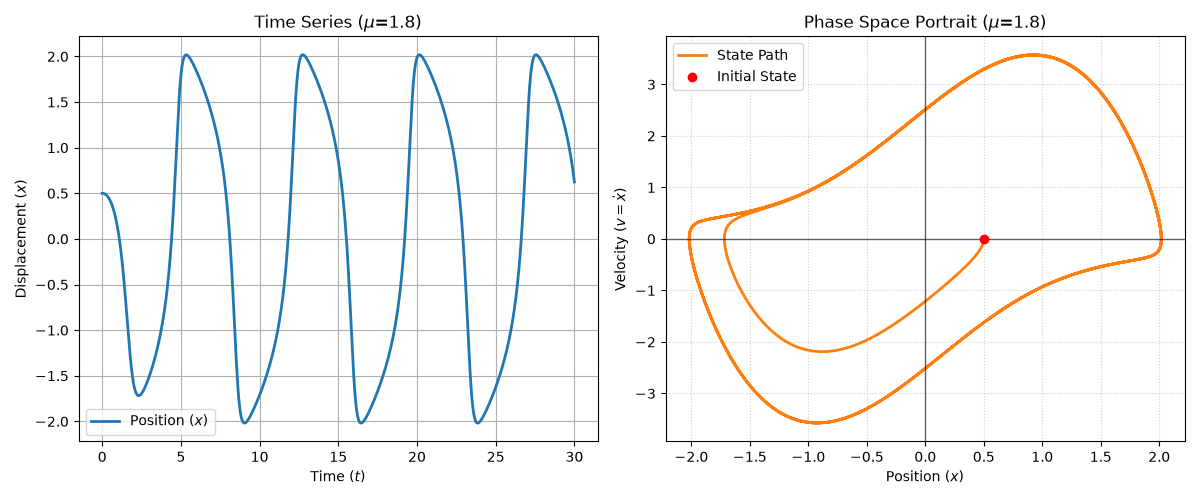
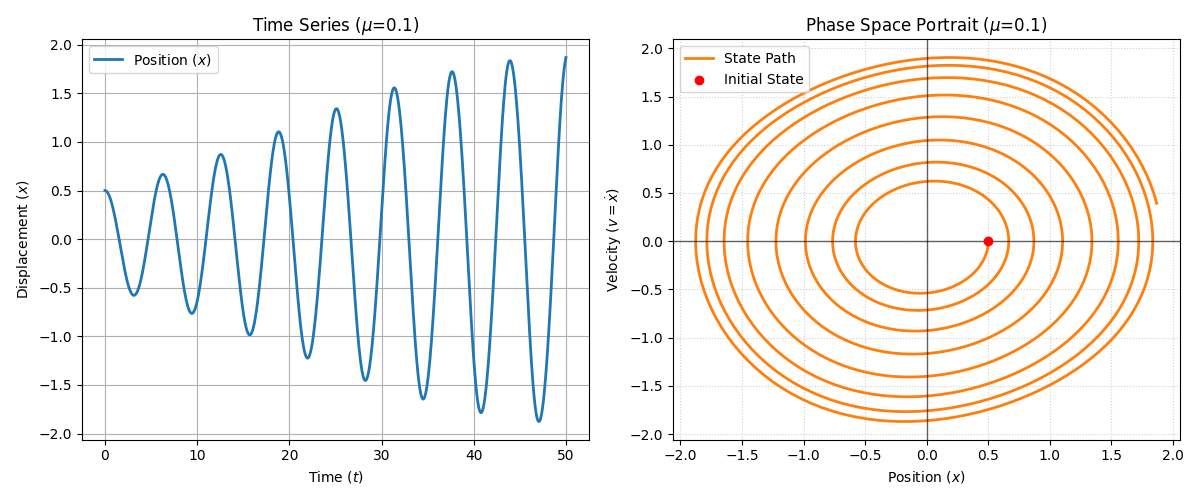
Experiment on mu=-0.1

Changed region(s): [[0.0, 0.03, 0.9867, 0.96], [0.5242, 0.75, 0.5858, 0.81]]

diff --git a/vdp_ip/main.py b/vdp_ip/main.py
@@ -11,16 +11,16 @@ def main ():
     """
     Create observable data
     """
-    TARGET_MU = 1.8
+    TARGET_MU = 0.1
     vanderpol = VDP(mu = TARGET_MU)
 
-    t_timedata = np.linspace(0, 30,1000)
+    t_timedata = np.linspace(0, 50,1000)
     initial_condition = [0.5,0.0]
     print(f"-----Preparing Vander Pol Data via RK4-----")
     true_data = vanderpol.generate_trajectory(initial_condition, t_timedata)
     plot_data = vanderpol.plot_trajectory(initial_condition, t_timedata)
     x_true_positions = true_data[:,0]
-    v_true_positions = true_data[:1]
+    v_true_positions = true_data[:,1]
 
 
     ##--------------------- Step 2 --------------------------------##
@@ -28,7 +28,9 @@ def main ():
     """
     Feed into PINN
     """
-    random_points = np.linspace(0, len(t_timedata)-1, 50).astype(int)
+    TRAINING_POINTS = 500
+    COLLOCATION_POINTS = 10000
+    random_points = np.linspace(0, len(t_timedata)-1, TRAINING_POINTS).astype(int)
 
     t_data_np = t_timedata[random_points]
     x_data_np = x_true_positions[random_points]
@@ -37,17 +39,17 @@ def main ():
     x_train_data = torch.tensor(x_data_np, dtype=torch.float32).view(-1,1)
 
     # Generate 400 uniform grid points for internal physics calculus checking
-    t_physics = torch.linspace(0, 30, 1000, dtype=torch.float32).view(-1, 1)
+    t_physics = torch.linspace(0, 50, COLLOCATION_POINTS, dtype=torch.float32).view(-1, 1)
 
     ##--------------------- Step 3 --------------------------------##
     """
     Set Up and train PINN Experiment
     """
     
-    NUM_EPOCH = 6000
+    NUM_EPOCH = 5000
     EPOCH_INTERVAL = 100
-    LEARNING_RATE = 1e-3
-    INITIAL_MU = 0.9
+    LEARNING_RATE = 1e-2
+    INITIAL_MU = 0.5
 
     model = PINNInverse(N_INPUT=1, N_OUTPUT=1, 
                         N_HIDDEN=64, 
@@ -67,10 +69,10 @@ def main ():
     """
     Prediction
     """
-    t_test_np = np.linspace(0, 30, 1000)
+    t_test_np = np.linspace(0, 50, 1000)
     t_test_tensor = torch.tensor(t_test_np, dtype=torch.float32).view(-1,1)
 
-    predict_model(model, t_test_tensor,t_timedata,x_true_positions,v_true_positions ,t_train_data, x_train_data,mu_history,INITIAL_MU)
+    predict_model(model, t_test_tensor,t_timedata,x_true_positions,v_true_positions ,t_train_data, x_train_data,mu_history,INITIAL_MU, TARGET_MU)
     
     
 if __name__ == "__main__":

diff --git a/vdp_ip/train.py b/vdp_ip/train.py
@@ -38,7 +38,7 @@ def train_model (model, t_data,x_data, t_physics, num_epochs, epoch_interval, le
         
     return loss_history, mu_history
 
-def predict_model (model,t_test, t_true, x_true,v_true, t_train_data, x_train_data, mu_history,INITIAL_MU):
+def predict_model (model,t_test, t_true, x_true,v_true, t_train_data, x_train_data, mu_history,INITIAL_MU, TARGET_MU):
 
     t_test = t_test.clone().detach().requires_grad_(True)
 
@@ -51,9 +51,10 @@ def predict_model (model,t_test, t_true, x_true,v_true, t_train_data, x_train_da
         create_graph=False
     )[0]
     
-    x_pred = x_pred_tensor.cpu().numpy().flatten()
-    v_pred = v_pred_tensor.cpu().numpy().flatten()
-    t_test = t_test.cpu().numpy().flatten()
+    x_pred = x_pred_tensor.detach().numpy()
+    v_pred = v_pred_tensor.detach().numpy()
+    t_test = t_test.detach().numpy()
+
     t_train_data = t_train_data.cpu().numpy().flatten()
     x_train_data = x_train_data.cpu().numpy().flatten()
     
@@ -72,7 +73,7 @@ def predict_model (model,t_test, t_true, x_true,v_true, t_train_data, x_train_da
     
     # Right Plot: Parameter Convergence
     ax2.plot(mu_history, color='tab:orange', lw=2, label="Estimated $\mu$")
-    ax2.axhline(y=INITIAL_MU, color='red', linestyle='--', label=f"True $\mu$ ({INITIAL_MU})")
+    ax2.axhline(y=TARGET_MU, color='red', linestyle='--', label=f"True $\mu$ ({TARGET_MU})")
     ax2.set_title("System Identification: $\mu$ Convergence")
     ax2.set_xlabel("Epochs")
     ax2.set_ylabel("Value of $\mu$")
@@ -90,7 +91,11 @@ def predict_model (model,t_test, t_true, x_true,v_true, t_train_data, x_train_da
     ax3.legend()
     ax3.grid(True, linestyle=':', alpha=0.6)
 
+
+    print("\n================ PINN METRICS EVALUATION ================")
+    print(f"True $\mu$ = {TARGET_MU}")
     print(f"Predicted $\mu$ = {model.mu.item()}")
-    print(f"Predicted $\mu$ error = {abs(model.mu.item() - INITIAL_MU)}")    
+    print(f"Predicted $\mu$ error = {(abs(model.mu.item() - TARGET_MU)/TARGET_MU)*100}") 
+    print("=========================================================")   
     plt.tight_layout()
     plt.savefig('prediction_result.png')